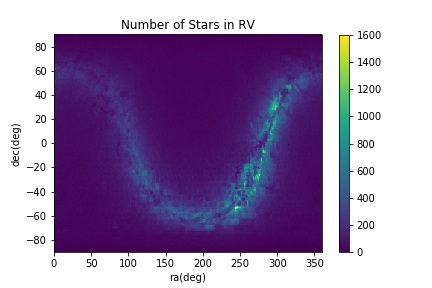
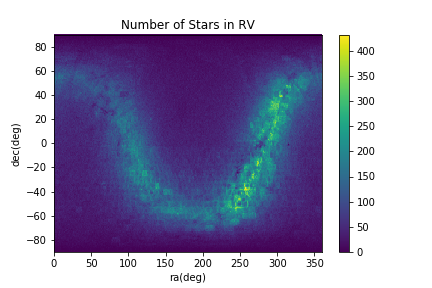
replotted everything with negative and too large distance removed

diff --git a/Code/selection/direction dependence.py b/Code/selection/direction dependence.py
@@ -16,12 +16,12 @@ parallax_rv = data_rv['parallax']
 # get distance
 distance_g = 1/parallax_g # in kpc
 distance_rv = 1/parallax_rv # in kpc
-# get rid of stars with negative distance and distance further than 5kpc
-mask_g = np.all(np.array([distance_g>0,distance_g<5]), axis = 0)
+# get rid of stars with negative distance and distance further than 2kpc
+mask_g = np.all(np.array([distance_g>0,distance_g<2]), axis = 0)
 ra_g = ra_g[mask_g]
 dec_g = dec_g[mask_g]
 distance_g =distance_g[mask_g]
-mask_rv = np.all(np.array([distance_rv>0,distance_rv<5]), axis = 0)
+mask_rv = np.all(np.array([distance_rv>0,distance_rv<2]), axis = 0)
 ra_rv = ra_rv[mask_rv]
 dec_rv = dec_rv[mask_rv]
 distance_rv = distance_rv[mask_rv]
